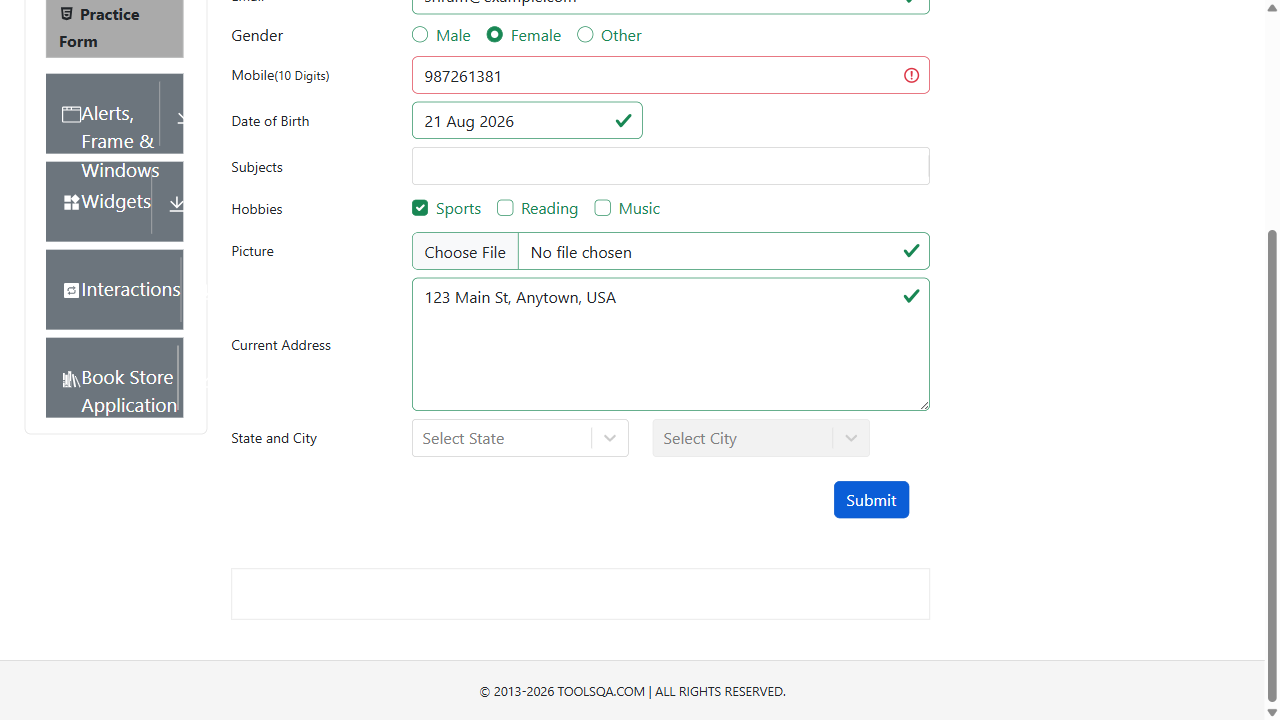
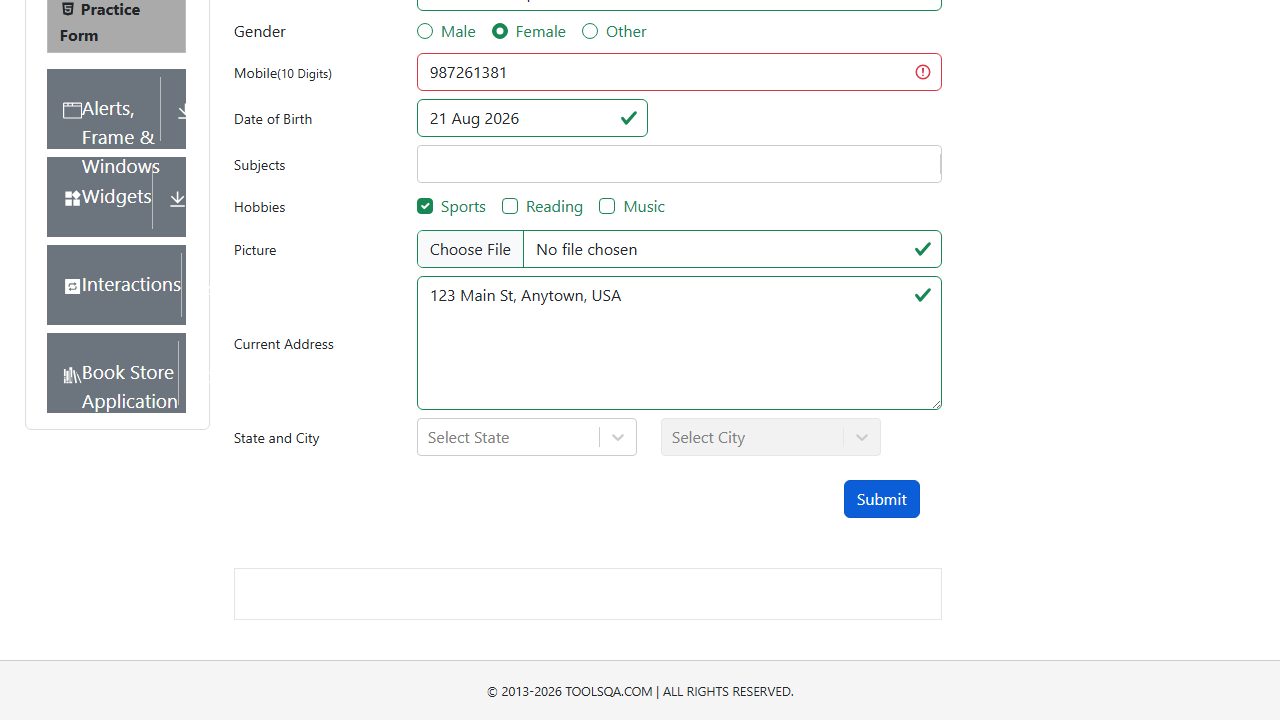
moving latest files with allure packages

diff --git a/playwright.config.js b/playwright.config.js
@@ -23,7 +23,7 @@ export default defineConfig({
   /* Opt out of parallel tests on CI. */
   workers: process.env.CI ? 1 : undefined,
   /* Reporter to use. See https://playwright.dev/docs/test-reporters */
-  reporter: 'html',
+  reporter: [['html'], ['list'], ['allure-playwright']],
   /* Shared settings for all the projects below. See https://playwright.dev/docs/api/class-testoptions. */
   use: {
     /* Base URL to use in actions like `await page.goto('')`. */
@@ -31,8 +31,7 @@ export default defineConfig({
 
     /* Collect trace when retrying the failed test. See https://playwright.dev/docs/trace-viewer */
     trace: 'on-first-retry',
-    headless: false,
-    
+    headless: true,
   },
 
   /* Configure projects for major browsers */
@@ -42,15 +41,15 @@ export default defineConfig({
       use: { ...devices['Desktop Chrome'] },
     },
 
-    {
-      name: 'firefox',
-      use: { ...devices['Desktop Firefox'] },
-    },
+    // {
+    //   name: 'firefox',
+    //   use: { ...devices['Desktop Firefox'] },
+    // },
 
-    {
-      name: 'webkit',
-      use: { ...devices['Desktop Safari'] },
-    },
+    // {
+    //   name: 'webkit',
+    //   use: { ...devices['Desktop Safari'] },
+    // },
 
     /* Test against mobile viewports. */
     // {
